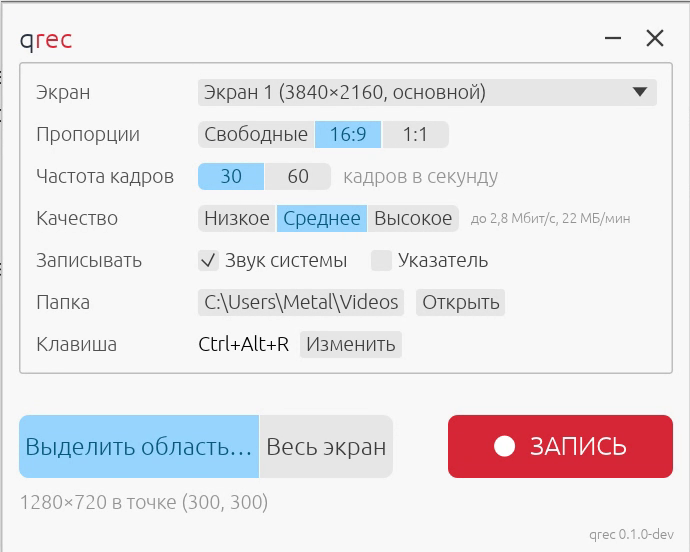
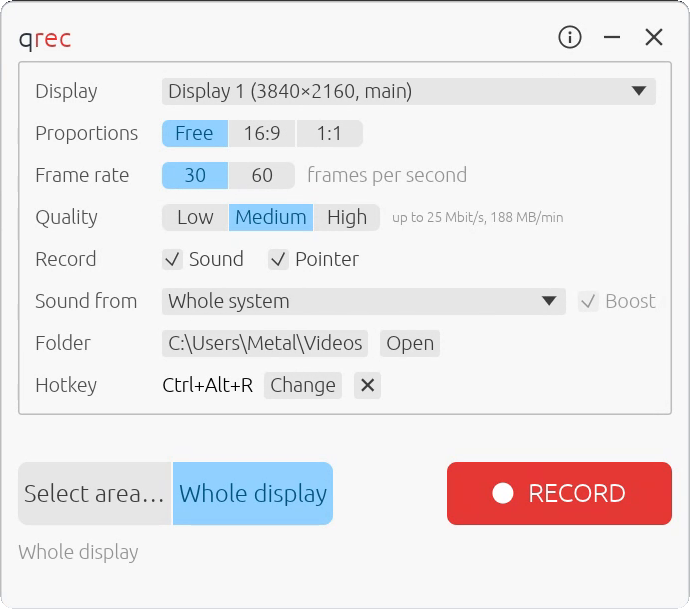
README: the window of version 0.1.0

diff --git a/README.ru.md b/README.ru.md
@@ -15,7 +15,7 @@
 qrec записывает прямоугольную область экрана или экран целиком в файл MP4: видео H.264, закодированное видеокартой, звук, который воспроизводит компьютер, в формате AAC, и указатель мыши. В окне находятся немногочисленные настройки, а глобальная горячая клавиша начинает и останавливает запись из любого окна.
 
 <p align="center">
-  <img src="images/screenshot.png" width="560" alt="Окно qrec: экран, область, частота кадров, качество, звук и указатель, папка, клавиша и кнопка «Запись»">
+  <img src="images/screenshot.png" width="560" alt="Окно qrec: экран, пропорции, частота кадров, качество, звук и указатель, источник звука, папка, клавиша, кнопки области и кнопка «Запись»">
 </p>
 
 *Окно версии 0.1.0.*

diff --git a/README.md b/README.md
@@ -15,7 +15,7 @@
 qrec records a rectangle of the screen, or a whole display, to an MP4 file: H.264 video encoded by the graphics card, the sound the computer plays as AAC, and the pointer. The window holds the few settings there are, and a global hotkey starts and stops the recording from anywhere.
 
 <p align="center">
-  <img src="images/screenshot.png" width="560" alt="The qrec window: display, area, frame rate, quality, sound and pointer, folder, hotkey, and the Record button">
+  <img src="images/screenshot.png" width="560" alt="The qrec window: display, proportions, frame rate, quality, sound and pointer, the sound source, folder, hotkey, the area buttons and the Record button">
 </p>
 
 *The window of version 0.1.0.*
